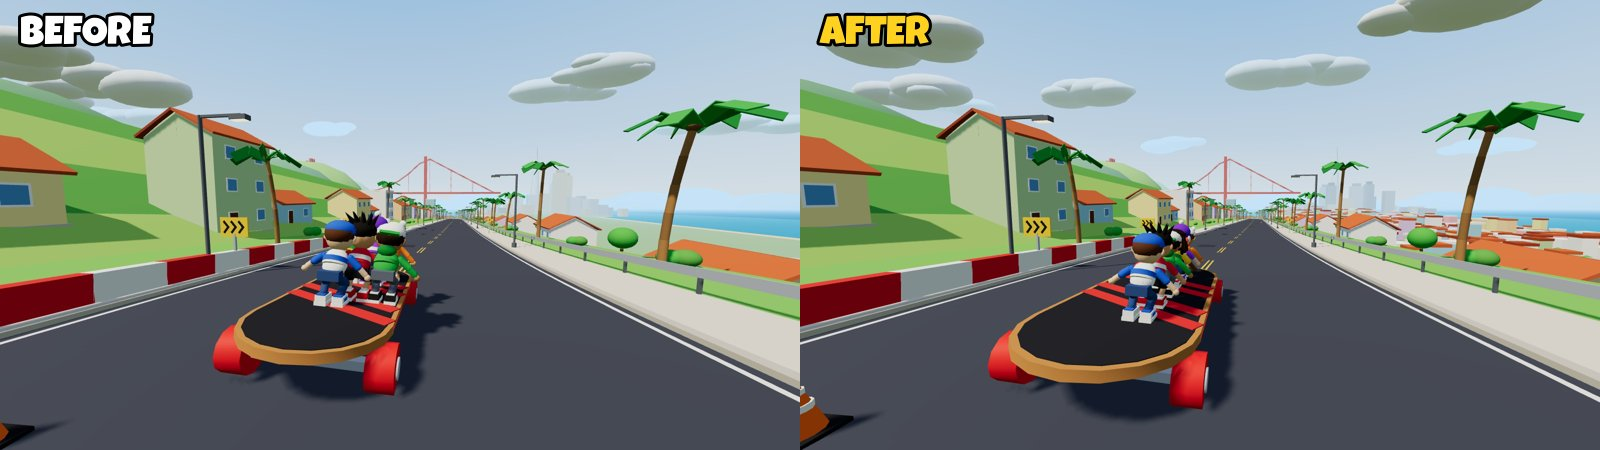
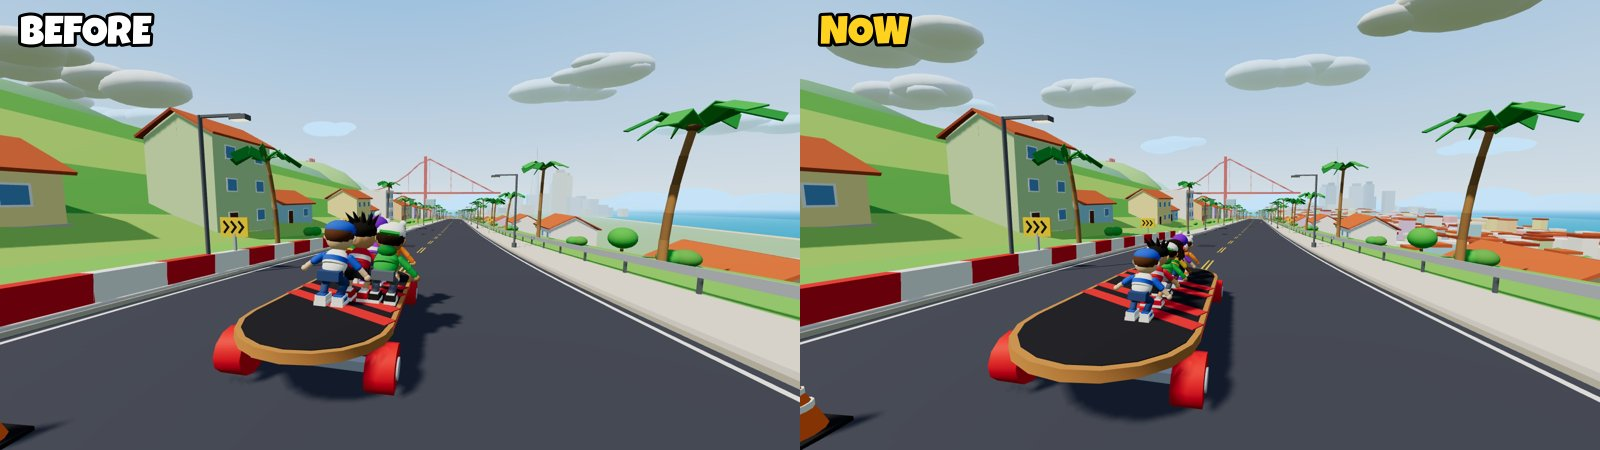
High scores as a podium; smaller riders on the big board
- TOP SCORES: #1 gold (centre, tallest), #2 silver, #3 bronze blocks rise in
  turn with medal, score, distance and crew on top; #4-#10 listed below;
  this run's block pulses with a NEW tag (or its row glows)
- Riders drawn at 0.72 (visual only): the deck reads ~1.56x bigger than
  the crew
- 103/103 headless, compile check clean; previews and report updated

Claude-Session: https://claude.ai/code/session_01WmU9vfZcmR15CSy5fV7A54

Changed region(s): [[0.6875, 0.4978, 0.7812, 0.7156], [0.5, 0.0311, 0.5938, 0.1244]]

diff --git a/Assets/Scripts/Runtime/Art/Hud/ScoreTable.cs b/Assets/Scripts/Runtime/Art/Hud/ScoreTable.cs
@@ -19,7 +19,6 @@ namespace Game.Hud
     /// </summary>
     public static class ScoreTable
     {
-        public const float RowHeight = 40f;
         static readonly CultureInfo Ci = CultureInfo.InvariantCulture;
 
         public static void Fill(IReadOnlyList<HighScoreEntry> top, int highlightRank, List<ScoreRow> into)
@@ -41,10 +40,14 @@ namespace Game.Hud
             }
         }
 
-        /// <summary>Height the table needs for <paramref name="rows"/> rows (at k = 1).</summary>
-        public static float Height(int rows) => 128f + Math.Max(1, rows) * RowHeight;
+        static readonly HudColor Gold = HudColor.Hex(0xFFC21F), Silver = HudColor.Hex(0xC9D3E0), Bronze = HudColor.Hex(0xE0894A);
 
-        /// <param name="reveal">Seconds since the table appeared (rows slide in one by one); large = all shown.</param>
+        /// <summary>Height the card needs (at k = 1): title, podium for the top three, list for #4..#10.</summary>
+        public static float Height(int rows) => 330f + Math.Max(1, HighScoreManager.TableSize - 3) * ListRow + 24f;
+
+        const float ListRow = 36f;
+
+        /// <param name="reveal">Seconds since the table appeared (podium rises, then the list slides in); large = all shown.</param>
         public static void Draw(List<HudCmd> o, List<ScoreRow> rows, float x, float y, float w, float k, float time, float reveal)
         {
             if (reveal <= 0f) return; // not its turn yet (the end screen reveals the summary first)
@@ -53,45 +56,76 @@ namespace Game.Hud
             Img(o, HudTex.Card, x, y, w, h, HudColor.Hex(0x14161E, 0.92f * a0));
             Img(o, HudTex.Panel, x + w * 0.5f - 200f * k, y - 30f * k, 400f * k, 84f * k, Cyan.WithAlpha(a0), rot: -3f);
             Txt(o, Loc.T("TOP SCORES"), x + w * 0.5f - 200f * k, y - 22f * k, 400f * k, 70f * k, 48f * k, Navy.WithAlpha(a0), HudAlign.Center, 0f);
-
-            // column layout (fractions of the width): rank | score | distance | crew
-            float cRank = x + 22f * k, cScore = x + 100f * k, cDist = x + w * 0.52f, cCrew = x + w * 0.8f;
-            float scoreW = cDist - cScore - 10f * k;
-            float hy = y + 66f * k;
-            HudColor head = HudColor.Hex(0x9AA0B4, a0);
-            Txt(o, Loc.T("SCORE"), cScore, hy, scoreW, 32f * k, 22f * k, head, HudAlign.Left, 2f * k);
-            Txt(o, Loc.T("DISTANCE"), cDist, hy, w * 0.28f, 32f * k, 22f * k, head, HudAlign.Left, 2f * k);
-            Txt(o, Loc.T("CREW"), cCrew, hy, w * 0.16f, 32f * k, 22f * k, head, HudAlign.Left, 2f * k);
-
-            float ry = y + 104f * k;
             if (rows.Count == 0)
             {
-                Txt(o, Loc.T("NO RUNS YET - GO RIDE!"), x, ry + 120f * k, w, 50f * k, 32f * k, HudColor.White.WithAlpha(a0), HudAlign.Center, 2f * k);
+                Txt(o, Loc.T("NO RUNS YET - GO RIDE!"), x, y + 220f * k, w, 50f * k, 32f * k, HudColor.White.WithAlpha(a0), HudAlign.Center, 2f * k);
                 return;
             }
-            for (int i = 0; i < rows.Count; i++)
+
+            // ---- podium: #2 left, #1 centre (tallest), #3 right; medal, score and distance stand on each block
+            float bw = w * 0.3f, gap = w * 0.035f, baseY = y + 318f * k;
+            for (int place = 0; place < 3; place++)
+            {
+                int slot = place == 0 ? 1 : place == 1 ? 0 : 2;             // screen column of this place
+                float bx = x + w * 0.5f - bw * 1.5f - gap + slot * (bw + gap);
+                float bh = (place == 0 ? 128f : place == 1 ? 96f : 74f) * k;
+                // blocks rise one after another: #3, #2, then #1
+                float t = Clamp01((reveal - 0.15f - (2 - place) * 0.15f) / 0.25f);
+                if (t <= 0f) continue;
+                float rise = EaseOutBack(t);
+                HudColor medal = place == 0 ? Gold : place == 1 ? Silver : Bronze;
+                bool has = place < rows.Count;
+                bool mine = has && rows[place].Highlight;
+                float pulse = mine ? 1f + 0.05f * (float)Math.Sin(time * 6f) : 1f;
+                float top = baseY - bh * rise;
+                Img(o, HudTex.Card, bx, top, bw, bh * rise, (has ? medal : HudColor.Hex(0x3A3D48)).WithAlpha(0.95f * t), scale: pulse);
+                Txt(o, (place + 1).ToString(Ci), bx, top + 6f * k, bw, Math.Max(1f, bh * rise - 10f * k), (place == 0 ? 72f : 56f) * k,
+                    HudColor.Hex(0x14161E, 0.55f * t), HudAlign.Center, 0f);
+                if (!has) continue;
+                ScoreRow r = rows[place];
+                float stand = top - 8f * k;
+                float scoreSize = Fit((place == 0 ? 36f : 30f) * k, bw + gap, r.Score);
+                Txt(o, r.Distance + "  " + r.Crew, bx - gap * 0.5f, stand - 30f * k, bw + gap, 28f * k, Fit(21f * k, bw + gap, r.Distance + "  " + r.Crew),
+                    HudColor.Hex(0xD8DCEA, t), HudAlign.Center, 2f * k);
+                Txt(o, r.Score, bx - gap * 0.5f, stand - 72f * k, bw + gap, 44f * k, scoreSize, (mine ? Yellow : HudColor.White).WithAlpha(t), HudAlign.Center, 3f * k, pulse);
+                Img(o, HudTex.Circle, bx + bw * 0.5f - 26f * k, stand - 132f * k, 52f * k, 52f * k, medal.WithAlpha(t), scale: pulse);
+                Txt(o, "#" + (place + 1).ToString(Ci), bx + bw * 0.5f - 26f * k, stand - 126f * k, 52f * k, 40f * k, 26f * k, Navy.WithAlpha(t), HudAlign.Center, 0f);
+                if (mine)
+                {
+                    Img(o, HudTex.Panel, bx + bw - 62f * k, stand - 138f * k, 80f * k, 34f * k, Red.WithAlpha(t), rot: 8f);
+                    Txt(o, Loc.T("NEW"), bx + bw - 62f * k, stand - 137f * k, 80f * k, 32f * k, 21f * k, HudColor.White.WithAlpha(t), HudAlign.Center, 0f);
+                }
+            }
+
+            // ---- #4..#10 list under the podium
+            float ry = baseY + 16f * k;
+            float cRank = x + 26f * k, cScore = x + 96f * k, cDist = x + w * 0.52f, cCrew = x + w * 0.8f;
+            float scoreW = cDist - cScore - 10f * k;
+            for (int i = 3; i < rows.Count; i++)
             {
                 ScoreRow r = rows[i];
-                float t = Clamp01((reveal - 0.15f - i * 0.06f) / 0.15f);
-                if (t <= 0f) { ry += RowHeight * k; continue; }
+                float t = Clamp01((reveal - 0.75f - (i - 3) * 0.06f) / 0.15f);
+                if (t <= 0f) { ry += ListRow * k; continue; }
                 float slide = (1f - t) * 40f * k;
-                HudColor text = HudColor.White.WithAlpha(t), dim = HudColor.Hex(0xD8DCEA, t);
+                HudColor text = HudColor.White.WithAlpha(t), dim = HudColor.Hex(0xAEB4C6, t);
                 if (r.Highlight)
                 {
                     float pulse = 0.85f + 0.15f * (float)Math.Sin(time * 6f);
-                    Img(o, HudTex.Panel, x + 8f * k, ry - 2f * k, w - 16f * k, (RowHeight + 2f) * k, Yellow.WithAlpha(t * pulse), skew: -0.1f);
+                    Img(o, HudTex.Panel, x + 10f * k, ry - 2f * k, w - 20f * k, (ListRow + 2f) * k, Yellow.WithAlpha(t * pulse), skew: -0.1f);
                     text = dim = Navy.WithAlpha(t);
-                    Img(o, HudTex.Panel, x + w - 96f * k, ry + 2f * k, 84f * k, (RowHeight - 6f) * k, Red.WithAlpha(t), rot: 6f);
-                    Txt(o, Loc.T("NEW"), x + w - 96f * k, ry + 3f * k, 84f * k, (RowHeight - 8f) * k, 22f * k, HudColor.White.WithAlpha(t), HudAlign.Center, 0f);
+                    Img(o, HudTex.Panel, x + w - 96f * k, ry + 1f * k, 84f * k, (ListRow - 4f) * k, Red.WithAlpha(t), rot: 6f);
+                    Txt(o, Loc.T("NEW"), x + w - 96f * k, ry + 2f * k, 84f * k, (ListRow - 6f) * k, 21f * k, HudColor.White.WithAlpha(t), HudAlign.Center, 0f);
                 }
-                float size = (i < 3 ? 28f : 25f) * k;
-                HudColor rankColor = r.Highlight ? text : i == 0 ? Yellow.WithAlpha(t) : i < 3 ? Cyan.WithAlpha(t) : dim;
-                Txt(o, r.Rank, cRank + slide, ry + 2f * k, 72f * k, (RowHeight - 4f) * k, size, rankColor, HudAlign.Left, r.Highlight ? 0f : 2f * k);
-                Txt(o, r.Score, cScore + slide, ry + 2f * k, scoreW, (RowHeight - 4f) * k, size, text, HudAlign.Left, r.Highlight ? 0f : 2f * k);
-                Txt(o, r.Distance, cDist + slide, ry + 2f * k, w * 0.28f, (RowHeight - 4f) * k, size, dim, HudAlign.Left, r.Highlight ? 0f : 2f * k);
-                if (!r.Highlight) Txt(o, r.Crew, cCrew + slide, ry + 2f * k, w * 0.12f, (RowHeight - 4f) * k, size, dim, HudAlign.Left, 2f * k);
-                ry += RowHeight * k;
+                float size = 23f * k, ol = r.Highlight ? 0f : 2f * k;
+                Txt(o, r.Rank, cRank + slide, ry + 2f * k, 66f * k, (ListRow - 4f) * k, size, dim, HudAlign.Left, ol);
+                Txt(o, r.Score, cScore + slide, ry + 2f * k, scoreW, (ListRow - 4f) * k, size, text, HudAlign.Left, ol);
+                Txt(o, r.Distance, cDist + slide, ry + 2f * k, w * 0.26f, (ListRow - 4f) * k, size, dim, HudAlign.Left, ol);
+                if (!r.Highlight) Txt(o, r.Crew, cCrew + slide, ry + 2f * k, w * 0.12f, (ListRow - 4f) * k, size, dim, HudAlign.Left, ol);
+                ry += ListRow * k;
             }
         }
+
+        /// <summary>Largest font size (up to <paramref name="size"/>) that keeps <paramref name="text"/> inside <paramref name="width"/>.</summary>
+        static float Fit(float size, float width, string text) => Math.Min(size, width / Math.Max(1f, text.Length * 0.6f));
     }
 }

diff --git a/Assets/Scripts/Runtime/Art/ArtLibrary.cs b/Assets/Scripts/Runtime/Art/ArtLibrary.cs
@@ -268,7 +268,7 @@ namespace Game.Art
 
         /// <summary>Torso pivot (hips) and head pivot (neck) of the rider rig, in "Pose" space.</summary>
         /// <summary>Riders are drawn a little smaller than modelled so the giant board reads giant next to them (visual only).</summary>
-        public const float RiderScale = 0.88f;
+        public const float RiderScale = 0.72f;
 
         public static readonly Vector3 TorsoPivot = V(0f, 0.58f, -0.08f), HeadPivot = V(0f, 1.1f, 0f);
 

diff --git a/Docs/M4_5_REPORT.md b/Docs/M4_5_REPORT.md
@@ -42,3 +42,12 @@ Tarih: 2026-09-30
   - Güncellenenler: menü testleri, tuning sabitleme testi.
 - **Unity derleme kontrolü:** 0 hata, 0 uyarı.
 - **Unity'de koşmadı.** Ekran görüntüleri headless önizleme. Önizlemedeki tablo örnek veri.
+
+## 4. Ek tur ("top score podyum gibi olmalı; kaykay hâlâ küçük, karakterler büyük")
+- **Podyum:**
+  - İlk üç skor podyumda duruyor: ortada en yüksek altın #1, solda gümüş #2, sağda bronz #3.
+  - Bloklar sırayla yükseliyor. Üstlerinde madalya, skor, mesafe ve ekip bilgisi var.
+  - 4–10 altta liste halinde. Yeni skor podyumdaysa bloğu nabız gibi atıyor ve NEW etiketi taşıyor; listedeyse satırı sarı yanıyor.
+  - Game over ekranında ve HIGH SCORES menüsünde aynı görünüm kullanılıyor.
+- **Karakterler:** Görsel ölçek 0.88'den **0.72**'ye düştü; sadece görünüm değişti, fizik aynı. Kaykay artık riderlara göre yaklaşık 1.56 kat büyük görünüyor. Karşılaştırma: `Docs/M4/board_size_before_after.jpg`.
+- **Test:** Headless 103/103 geçti, derleme kontrolü 0 hata ve 0 uyarı. Unity'de koşmadı.

diff --git a/README.md b/README.md
@@ -16,8 +16,9 @@ for a later language release). Report: `Docs/M4_3_REPORT.md`.
 also calls jumps over potholes, debris and cones), move meter (CARVE → STRAIGHTEN!, BOOST, DRAFTING), first-run
 riding tips (saved; toggle in Settings), animated end screen with NEW BEST stamp, HOW TO PLAY and CREDITS screens,
 4 new achievements (18 total). Report: `Docs/M4_4_REPORT.md`.
-**M4.5:** bigger board next to the riders (6.75 x 2.7 m deck, riders drawn at 0.88), local TOP 10 high-score table on
-the game-over screen (your rank, NEW row) and a HIGH SCORES menu screen, automatic upgrade of stale tuning assets.
+**M4.5:** bigger board next to the riders (6.75 x 2.7 m deck, riders drawn at 0.72), local TOP 10 high scores as a
+podium (gold / silver / bronze) plus a list for #4-#10 on the game-over screen (your rank, NEW tag) and a HIGH SCORES
+menu screen, automatic upgrade of stale tuning assets.
 Report: `Docs/M4_5_REPORT.md`.
 Screenshots (headless preview of the same geometry and HUD draw commands): `Docs/M4/`.
 
